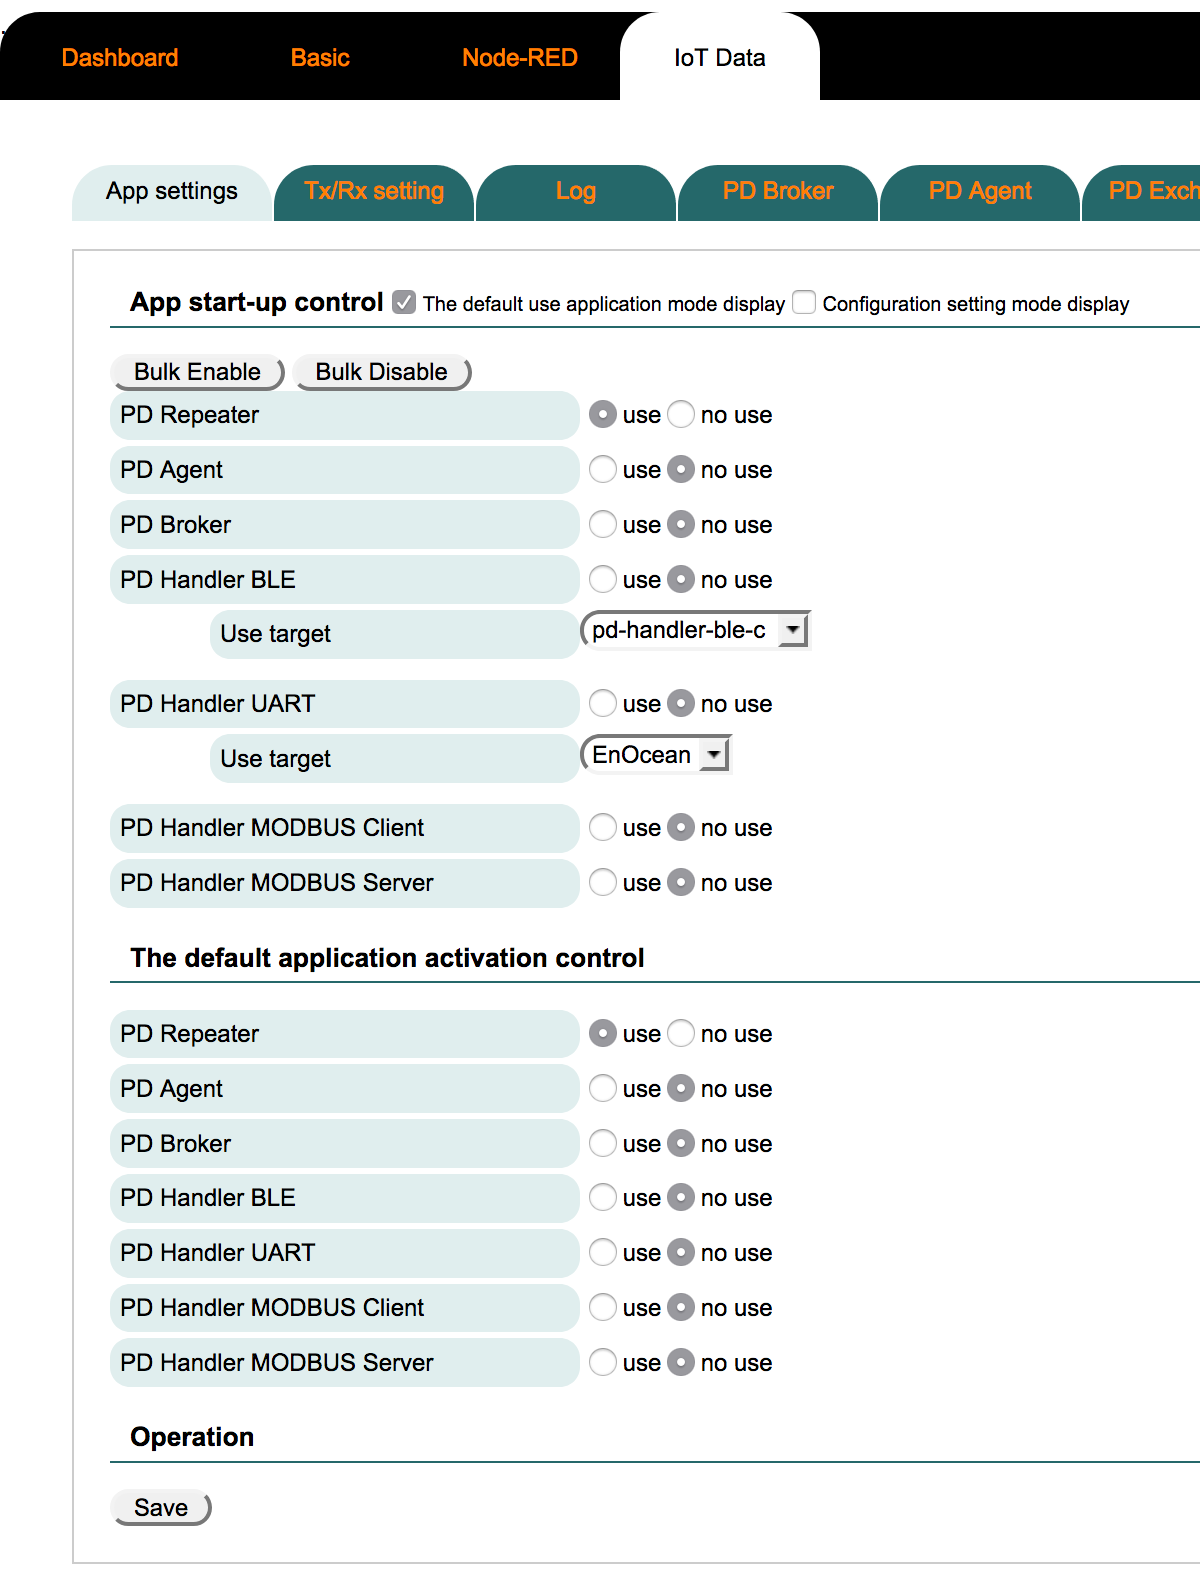
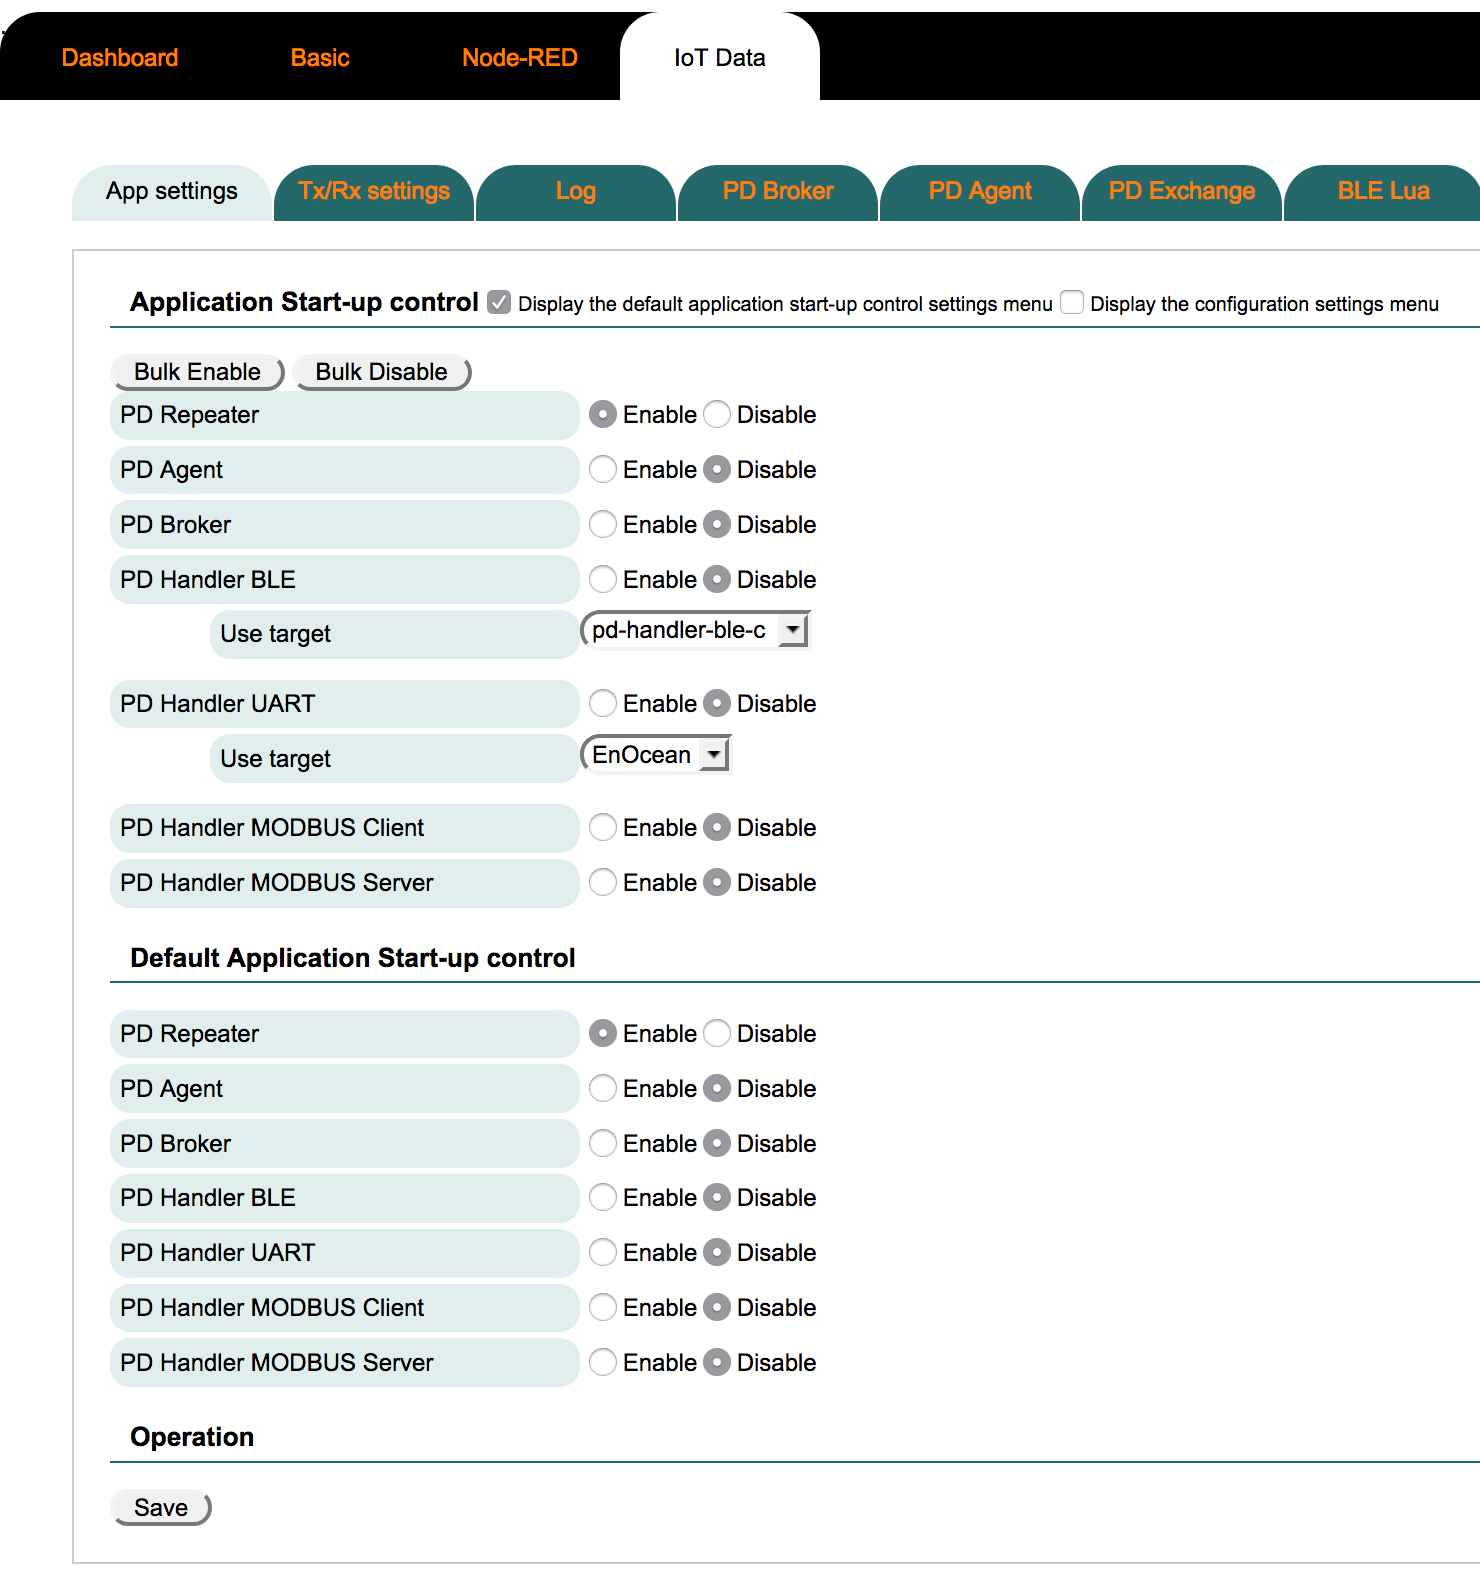
updated documents and images

diff --git a/doc_source/vx2/HowToGetBLEBeaconData.md b/doc_source/vx2/HowToGetBLEBeaconData.md
@@ -15,7 +15,7 @@ PD Handler BLE C -> PD Repeater -> Node-RED
     Click **Basic functions** Link  
     ![service_basic](/image/webui/service_basic.png)  
     transit to below screen  
-    Check if **To be use** is selected  
+    Check if **Enable** is selected  
     ![basic_bt_if](/image/webui/basic_bt_if.png)  
     Check if the hci is **up** on the [State] tab  
     ![basic_state](/image/webui/basic_state.png)  
@@ -27,33 +27,41 @@ PD Handler BLE C -> PD Repeater -> Node-RED
     ![basic_ble_registration_after_detection](/image/webui/basic_ble_registration_after_detection.png)  
 
 1. IoT data control settings
+    1. Install IoT data control Enhancement
+        1. Move to [Maintenance] -> [Enhancements] tab  
+        ![maintenance_enhancements_iot_data](/image/webui/maintenance_enhancements_iot_data.png)  
+        1. Select **IoT data control** and click Execution button  
+        1. Reboot   
     1. App settings
         1. Move to [Service] -> [Basic] tab and click **IoT Data** Link  
-        ![service_basic_iot_data](/image/webui/service_basic_iot_data.png)  
+        ![service_basic_iot_nodered](/image/webui/service_basic_iot_nodered.png)  
         transit to below screen  
         ![iot_data_app_settings_default](/image/webui/iot_data_app_settings_default.png)  
         1. Check **The default use application mode display** on Application Start-up control  
-        1. Select **To be use** on Default Application Start-up control -> **PD Repeater**  
-        1. Select **To be use** on Default Application Start-up control -> **PD Handler BLE**  
-        1. Select **To be use** on Application Start-up control -> **PD Repeater**  
-        1. Select **To be use** on Application Start-up control -> **PD Handler BLE**  
+        ![iot_data_app_settings_check_default](/image/webui/iot_data_app_settings_check_default.png)  
+        1. Select **Enable** on Default Application Start-up control -> **PD Repeater**  
+        1. Select **Enable** on Default Application Start-up control -> **PD Handler BLE**  
+        1. Select **Enable** on Application Start-up control -> **PD Repeater**  
+        1. Select **Enable** on Application Start-up control -> **PD Handler BLE**  
+        ![iot_data_app_settings_repeater_handler_ble](/image/webui/iot_data_app_settings_repeater_handler_ble.png)  
         1. Click **Save** button on Operation  
     1. Tx/Rx settings
         1. Move to [IoT data] -> [Tx/Rx setting] tab  
-        ![iot_data_tx_rx_setting](/image/webui/iot_data_tx_rx_setting.png)  
-        1. Select **To be use** on Tx/Rx setting -> **UNIX domain socket(lsocket)**  
-        ![iot_data_tx_rx_setting_lsocket](/image/webui/iot_data_tx_rx_setting_lsocket.png)  
+        ![iot_data_tx_rx_settings](/image/webui/iot_data_tx_rx_settings.png)  
+        1. Select **Enable** on Tx/Rx setting -> **UNIX domain socket(lsocket)**  
+        ![iot_data_tx_rx_settings_lsocket](/image/webui/iot_data_tx_rx_settings_lsocket.png)  
         1. Edit the value of **Interval[sec]**  
         60 -> 0  
-        1. Check **To be use** on Beacon transmission settings
-        ![iot_data_tx_rx_setting_beacon](/image/webui/iot_data_tx_rx_setting_beacon.png)  
+        1. Check **Enable** on Beacon transmission settings
+        ![iot_data_tx_rx_settings_beacon](/image/webui/iot_data_tx_rx_settings_beacon.png)  
         1. Edit the value of **Duplication control time interval[msec]**  
         60000 -> 0  
         1. Check **lsocket** on Beacon transmission settings -> Tx/Rx setting
-        ![iot_data_tx_rx_setting_device](/image/webui/iot_data_tx_rx_setting_device.png)  
+        ![iot_data_tx_rx_settings_device](/image/webui/iot_data_tx_rx_settings_device.png)  
         1. Click **Save** button on Operation  
 
 1. Node-RED settings  
+    1. Move to [Node-RED] tab and click **Link** button on Operation  
     1. Drug and drop **ipc** node from **input** to flowsheet  
     ![nodered_ipc](/image/webui/nodered_ipc.png)  
     1. Double click **ipc** node  

diff --git a/doc_source/vx2/HowToCreateCustomPdHandlerWithNodejs.md b/doc_source/vx2/HowToCreateCustomPdHandlerWithNodejs.md
@@ -8,13 +8,6 @@
 Development Language : ***Node.js***  
 Target Device : ***BLE beacon***  
 
-### What is PD-Handler ?
-* Get data from Devices
-* Control Devices
-
-### What is PD-Repeater ?
-* Send data to Cloud
-
 ### Point for creating PD-Handler
 For creating custom PD-Handler, only 3 steps are necessary.
 1. Get data from devices
@@ -32,22 +25,23 @@ For creating custom PD-Handler, only 3 steps are necessary.
     ![basic_udr_after_settings](/image/webui/basic_udr_after_settings.png)
 1. IoT Data settings  
     1. Move to [IoT Data] -> [App settings] tab  
-    1. Check **The default use application mode display** on Application Start-up control  
-    1. Select **To be use** on Default Application Start-up control -> **PD Repeater**  
+    1. Check **Display the default application start-up control settings menu** on Application Start-up control  
+    1. Select **Enable** on Default Application Start-up control -> **PD Repeater**  
     Select **Disable** on the others
-    1. Select **To be use** on Application Start-up control -> **PD Repeater**  
+    1. Select **Enable** on Application Start-up control -> **PD Repeater**  
     Select **Disable** on the others
     1. Click **Save** button on Operation  
     ![iotdata_app_only_repeater](/image/webui/iotdata_app_only_repeater.png)
-    1. Move to [Tx/Rx setting] tab  
-    1. Select **To be use** on Tx/Rx setting -> **UNIX domain socket(lsocket)**  
+    1. Move to [Tx/Rx settings] tab  
+    1. Select **Enable** on Tx/Rx settings -> **UNIX domain socket(lsocket)**  
     1. Edit the value of **Interval[sec]**  
     60 -> 0  
-    1. Select **To be use** on Device setting(user definition)
+    1. Select **Enable** on Device setting(user definition)
     1. Check **lsocket** on Device setting(user definition) -> Tx/Rx setting
     1. Click **Save** button on Operation  
     ![iotdata_txrx_lsocket_userdev](/image/webui/iotdata_txrx_lsocket_userdev.png)
 1. Node-RED settings  
+    1. Move to [Node-RED] tab and click **Link** button on Operation  
     1. Drug and drop **ipc** node from **input** to flowsheet  
     ![nodered_ipc](/image/webui/nodered_ipc.png)  
     1. Double click **ipc** node  

diff --git a/doc_source/vx2/HowToUseNodered.md b/doc_source/vx2/HowToUseNodered.md
@@ -3,10 +3,9 @@
 ## Preparation
 * [Quick Start](/doc_source/vx2/QuickStart.md)  
 
-1. Install IoT data control and Node-RED Enhancement
+1. Install Node-RED Enhancement
     1. Move to [Maintenance] -> [Enhancements] tab  
-    ![maintenance_enhancements](/image/webui/maintenance_enhancements.png)  
-    1. Select **IoT data control** and click Execution button  
+    ![maintenance_enhancements_nodered](/image/webui/maintenance_enhancements_nodered.png)  
     1. Select **Node-RED** and click Execution button  
     1. Reboot   
 
@@ -15,7 +14,8 @@
     Select **Enable** on Filter open Settings -> Node-RED  
     ![system_filter_nodered](/image/webui/system_filter_nodered.png)  
     1. Move to [Service] -> [Basic] tab and click **Node-RED** Link  
-    Select **To be use** on Node-RED -> Setting use  
+    Select **Enable** on Node-RED -> Use or not  
+    ![nodered_nodered](/image/webui/nodered_nodered.png)  
     1. Click **Save** button on Operation  
     1. Click **Link** button on Operation  
     transit to Node-RED screen  

diff --git a/doc_source/vx2/QuickStart.md b/doc_source/vx2/QuickStart.md
@@ -7,7 +7,7 @@ Google Chrome or Firefox
 * SSH client  
 
 ## Preparation
-connect AC adapter and power on automatically  
+Connect AC adapter and power on automatically  
 
 ### Connection with Wireless network  
 1. Connect with the following information  
@@ -52,15 +52,17 @@ Set Wireless LAN and/or Ethernet you use.
 
 1. Reboot  
 Reboot for applying settings.  
-    1. click restart  
+    1. Click restart on the upper red line  
 ![restart1](/image/webui/restart1.png)  
-    1. push Reboot Run button  
+    1. Click Run button on Reboot  
 ![restart2](/image/webui/restart2.png)  
-    1. click OK on pop up  
-![restart3](/image/webui/restart3.png)  
+    1. Click Run button  
+![restart2](/image/webui/restart3.png)  
+    1. Click OK on pop up  
+![restart3](/image/webui/restart4.png)  
 
 1. Login  
-input Username and Password, and then, click Login button  
+Input Username and Password, and then, click Login button  
 ![login](/image/webui/login.png)  
 transit to dashboard screen  
 ![dashboard](/image/webui/dashboard.png)  

diff --git a/doc_source/vx2/OverviewOfVX2AndFW3.md b/doc_source/vx2/OverviewOfVX2AndFW3.md
@@ -1,0 +1,25 @@
+# Overview of VX2 and FW3.x
+
+## New Features of VX2
+* CPU : 1.33GHz Dual-Core  
+* Memory : **2GB**  
+* STORAGE : **32GB**  
+* Gigabit Ethernet : **2pots**  
+
+## New Functions of FW3.x  
+![fw3_architecture_s](/image/webui/fw3_architecture_s.png)
+* Flexible Architecture for Edge computing with UNIX Domain Socket  
+* Downstream Control  
+* Docker Support  
+
+### What is WebUI ?
+* Management and settings from browser
+
+### What is PD-Handler ?
+* Get data from devices and control devices
+
+### What is PD-Repeater ?
+* Send data to cloud and receive data from cloud
+
+### What is AirManage ?
+* Remote management service for IoT Gateway  
